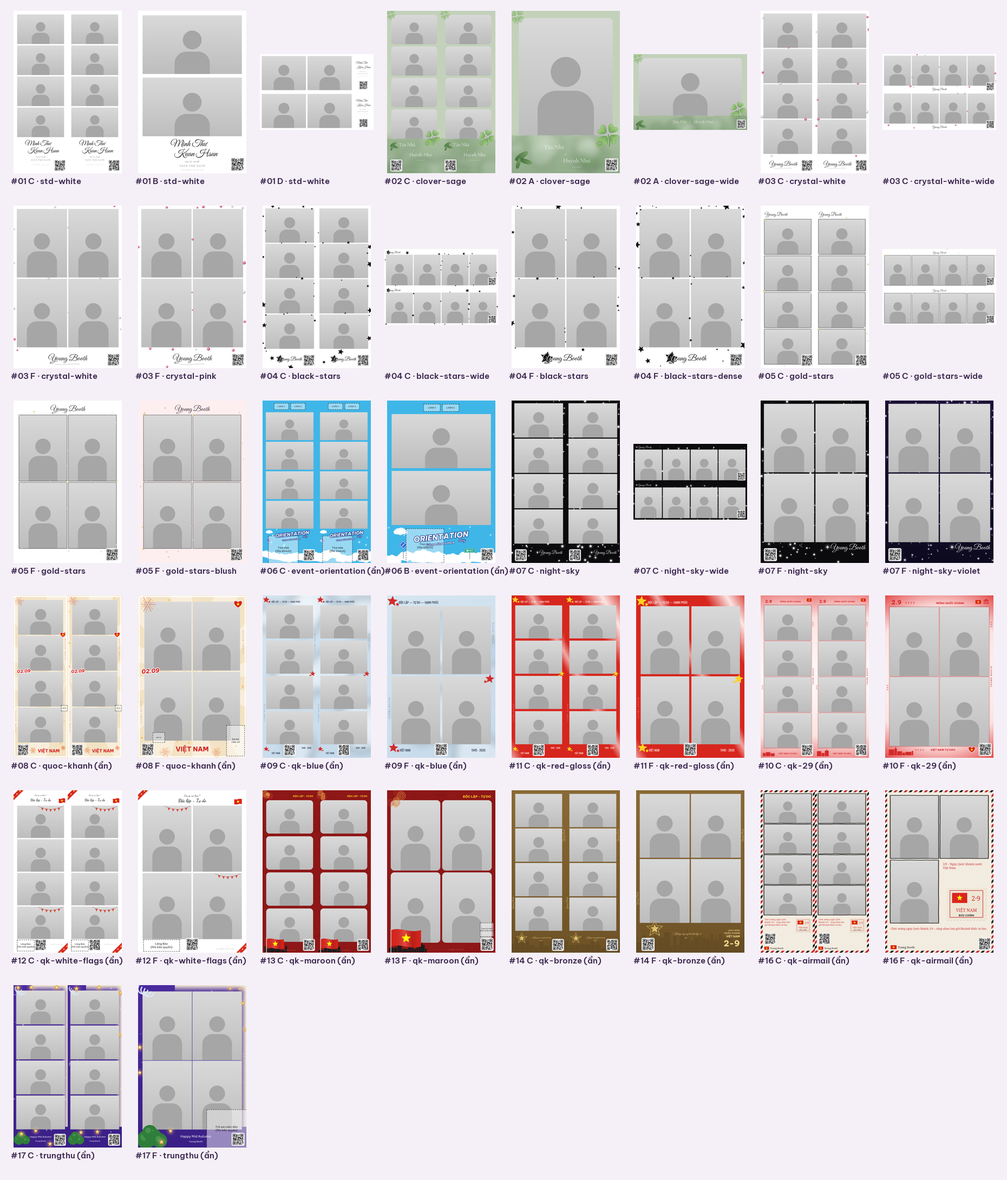
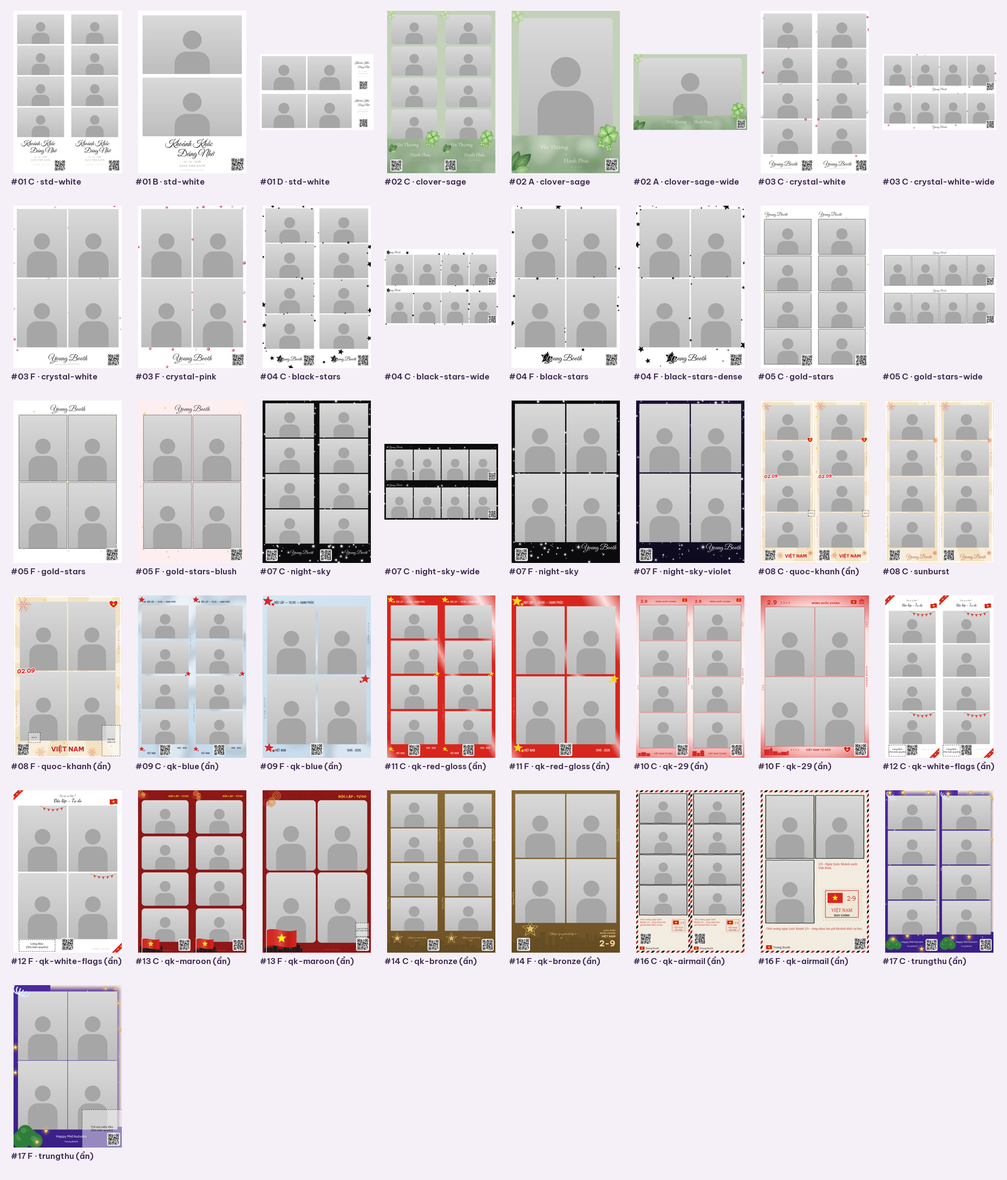
Khung: bỏ tên người trong chữ mặc định, dùng chữ chung cho đám cưới / sự kiện; ngày trống = hôm nay

diff --git a/renderer/config.js b/renderer/config.js
@@ -25,27 +25,27 @@ const FRAME_SETS = {
       { id: 'A-clover-sage', name: 'Cỏ Bốn Lá – Sage', textGroup: 'clover-sage', overlay: 'file:///C:/YoungBooth-Frames/A-clover-sage.png', thumb: 'file:///C:/YoungBooth-Frames/A-clover-sage-thumb.png', background: '#c3d1ba', logo: null, showBrand: false, canvas: { w: 1200, h: 1800 }, qr: { size: 120, label: false, at: [{ x: 1036, y: 1636 }] },
         slots: [{ x: 80, y: 80, w: 1040, h: 1300, radius: 40 }],
         texts: [
-          { id: 'line1', label: 'Tên người thứ nhất', value: 'Tấn Nhã', x: 470, y: 1530, size: 64, fit: 520, color: '#ffffff', ff: '"YB Serif", Georgia, serif', weight: '600' },
+          { id: 'line1', label: 'Dòng chữ trên', value: 'Yêu Thương', x: 470, y: 1530, size: 64, fit: 520, color: '#ffffff', ff: '"YB Serif", Georgia, serif', weight: '600' },
           { id: 'sep', label: 'Ký tự nối', value: '+', x: 600, y: 1600, size: 40, color: '#ffffff', ff: '"YB Serif", Georgia, serif', weight: '600' },
-          { id: 'line2', label: 'Tên người thứ hai', value: 'Huỳnh Như', x: 720, y: 1680, size: 64, fit: 520, color: '#ffffff', ff: '"YB Serif", Georgia, serif', weight: '600' },
-          { id: 'date', label: 'Ngày', value: '05.07.2026', x: 720, y: 1735, size: 22, color: '#f2f6ef', ff: '"YB Serif", Georgia, serif', weight: '600', ls: 2 },
+          { id: 'line2', label: 'Dòng chữ dưới', value: 'Hạnh Phúc', x: 720, y: 1680, size: 64, fit: 520, color: '#ffffff', ff: '"YB Serif", Georgia, serif', weight: '600' },
+          { id: 'date', label: 'Ngày (trống = hôm nay)', value: '', x: 720, y: 1735, size: 22, color: '#f2f6ef', ff: '"YB Serif", Georgia, serif', weight: '600', ls: 2 },
         ] },
       { id: 'A-clover-sage-wide', name: 'Cỏ Bốn Lá – Sage (ngang)', textGroup: 'clover-sage', overlay: 'file:///C:/YoungBooth-Frames/A-clover-sage-wide.png', thumb: 'file:///C:/YoungBooth-Frames/A-clover-sage-wide-thumb.png', background: '#c3d1ba', logo: null, showBrand: false, canvas: { w: 1800, h: 1200 }, paper: '4x6', qr: { size: 120, label: false, at: [{ x: 1636, y: 1036 }] },
         slots: [{ x: 85, y: 63, w: 1630, h: 910, radius: 40 }],
         texts: [
-          { id: 'line1', label: 'Tên người thứ nhất', value: 'Tấn Nhã', x: 840, y: 1090, size: 64, fit: 620, color: '#ffffff', ff: '"YB Serif", Georgia, serif', weight: '600', align: 'right' },
+          { id: 'line1', label: 'Dòng chữ trên', value: 'Yêu Thương', x: 840, y: 1090, size: 64, fit: 620, color: '#ffffff', ff: '"YB Serif", Georgia, serif', weight: '600', align: 'right' },
           { id: 'sep', label: 'Ký tự nối', value: '+', x: 900, y: 1088, size: 44, color: '#ffffff', ff: '"YB Serif", Georgia, serif', weight: '600' },
-          { id: 'line2', label: 'Tên người thứ hai', value: 'Huỳnh Như', x: 960, y: 1090, size: 64, fit: 620, color: '#ffffff', ff: '"YB Serif", Georgia, serif', weight: '600', align: 'left' },
-          { id: 'date', label: 'Ngày', value: '05.07.2026', x: 900, y: 1140, size: 22, color: '#f2f6ef', ff: '"YB Serif", Georgia, serif', weight: '600', ls: 2 },
+          { id: 'line2', label: 'Dòng chữ dưới', value: 'Hạnh Phúc', x: 960, y: 1090, size: 64, fit: 620, color: '#ffffff', ff: '"YB Serif", Georgia, serif', weight: '600', align: 'left' },
+          { id: 'date', label: 'Ngày (trống = hôm nay)', value: '', x: 900, y: 1140, size: 22, color: '#f2f6ef', ff: '"YB Serif", Georgia, serif', weight: '600', ls: 2 },
         ] },
   ],
   B: [
       { id: 'B-std-white', name: 'Save The Date – Trắng (dọc)', textGroup: 'std-white', overlay: 'file:///C:/YoungBooth-Frames/B-std-white.png', thumb: 'file:///C:/YoungBooth-Frames/B-std-white-thumb.png', background: '#ffffff', logo: null, showBrand: false, canvas: { w: 1200, h: 1800 }, paper: '4x6', noRotate: false, qr: { size: 130, label: false, at: [{ x: 1024, y: 1624 }] },
         slots: [{ x: 50, y: 50, w: 1100, h: 650 }, { x: 50, y: 740, w: 1100, h: 650 }],
         texts: [
-          { id: 'line1', label: 'Tên dòng 1', value: 'Minh Thư', x: 560, y: 1500, size: 100, fit: 760, color: '#1a1a1a', ff: '"YB Script", "Dancing Script", cursive' },
-          { id: 'line2', label: 'Tên dòng 2', value: 'Kuan Hsun', x: 640, y: 1610, size: 100, fit: 760, color: '#1a1a1a', ff: '"YB Script", "Dancing Script", cursive' },
-          { id: 'date', label: 'Ngày', value: '09.07.2026', x: 600, y: 1680, size: 32, color: '#333333', ff: '"YB Serif", Georgia, serif', weight: '600', ls: 3 },
+          { id: 'line1', label: 'Dòng chữ 1', value: 'Khoảnh Khắc', x: 560, y: 1500, size: 100, fit: 760, color: '#1a1a1a', ff: '"YB Script", "Dancing Script", cursive' },
+          { id: 'line2', label: 'Dòng chữ 2', value: 'Đáng Nhớ', x: 640, y: 1610, size: 100, fit: 760, color: '#1a1a1a', ff: '"YB Script", "Dancing Script", cursive' },
+          { id: 'date', label: 'Ngày (trống = hôm nay)', value: '', x: 600, y: 1680, size: 32, color: '#333333', ff: '"YB Serif", Georgia, serif', weight: '600', ls: 3 },
           { id: 'tagline', label: 'Dòng dưới ngày', value: 'SAVE THE DATE', x: 600, y: 1728, size: 30, color: '#333333', ff: '"YB Serif", Georgia, serif', weight: '600', ls: 5 },
         ] },
   ],
@@ -53,18 +53,18 @@ const FRAME_SETS = {
       { id: 'C-std-white', name: 'Save The Date – Trắng', textGroup: 'std-white', overlay: 'file:///C:/YoungBooth-Frames/C-std-white.png', thumb: 'file:///C:/YoungBooth-Frames/C-std-white-thumb.png', background: '#ffffff', logo: null, showBrand: false, canvas: { w: 1200, h: 1800 }, cut2inch: true, qr: { size: 110, label: false, at: [{ x: 448, y: 1648 }, { x: 1048, y: 1648 }] },
         slots: [{ x: 40, y: 40, w: 520, h: 328 }, { x: 40, y: 384, w: 520, h: 328 }, { x: 40, y: 728, w: 520, h: 328 }, { x: 40, y: 1072, w: 520, h: 328 }, { x: 640, y: 40, w: 520, h: 328 }, { x: 640, y: 384, w: 520, h: 328 }, { x: 640, y: 728, w: 520, h: 328 }, { x: 640, y: 1072, w: 520, h: 328 }],
         texts: [
-          { id: 'line1', label: 'Tên dòng 1', value: 'Minh Thư', xs: [270, 870], y: 1490, size: 72, fit: 480, color: '#1a1a1a', ff: '"YB Script", "Dancing Script", cursive' },
-          { id: 'line2', label: 'Tên dòng 2', value: 'Kuan Hsun', xs: [330, 930], y: 1570, size: 72, fit: 480, color: '#1a1a1a', ff: '"YB Script", "Dancing Script", cursive' },
-          { id: 'date', label: 'Ngày', value: '09.07.2026', xs: [300, 900], y: 1625, size: 24, color: '#333333', ff: '"YB Serif", Georgia, serif', weight: '600', ls: 2 },
+          { id: 'line1', label: 'Dòng chữ 1', value: 'Khoảnh Khắc', xs: [270, 870], y: 1490, size: 72, fit: 480, color: '#1a1a1a', ff: '"YB Script", "Dancing Script", cursive' },
+          { id: 'line2', label: 'Dòng chữ 2', value: 'Đáng Nhớ', xs: [330, 930], y: 1570, size: 72, fit: 480, color: '#1a1a1a', ff: '"YB Script", "Dancing Script", cursive' },
+          { id: 'date', label: 'Ngày (trống = hôm nay)', value: '', xs: [300, 900], y: 1625, size: 24, color: '#333333', ff: '"YB Serif", Georgia, serif', weight: '600', ls: 2 },
           { id: 'tagline', label: 'Dòng dưới ngày', value: 'SAVE THE DATE', xs: [300, 900], y: 1662, size: 22, color: '#333333', ff: '"YB Serif", Georgia, serif', weight: '600', ls: 4 },
         ] },
       { id: 'C-clover-sage', name: 'Cỏ Bốn Lá – Sage', textGroup: 'clover-sage', overlay: 'file:///C:/YoungBooth-Frames/C-clover-sage.png', thumb: 'file:///C:/YoungBooth-Frames/C-clover-sage-thumb.png', background: '#c3d1ba', logo: null, showBrand: false, canvas: { w: 1200, h: 1800 }, cut2inch: true, qr: { size: 110, label: false, at: [{ x: 36, y: 1648 }, { x: 636, y: 1648 }] },
         slots: [{ x: 45, y: 45, w: 510, h: 325, radius: 36 }, { x: 45, y: 394, w: 510, h: 325, radius: 36 }, { x: 45, y: 743, w: 510, h: 325, radius: 36 }, { x: 45, y: 1092, w: 510, h: 325, radius: 36 }, { x: 645, y: 45, w: 510, h: 325, radius: 36 }, { x: 645, y: 394, w: 510, h: 325, radius: 36 }, { x: 645, y: 743, w: 510, h: 325, radius: 36 }, { x: 645, y: 1092, w: 510, h: 325, radius: 36 }],
         texts: [
-          { id: 'line1', label: 'Tên người thứ nhất', value: 'Tấn Nhã', xs: [220, 820], y: 1500, size: 52, fit: 360, color: '#ffffff', ff: '"YB Serif", Georgia, serif', weight: '600' },
+          { id: 'line1', label: 'Dòng chữ trên', value: 'Yêu Thương', xs: [220, 820], y: 1500, size: 52, fit: 360, color: '#ffffff', ff: '"YB Serif", Georgia, serif', weight: '600' },
           { id: 'sep', label: 'Ký tự nối', value: '+', xs: [290, 890], y: 1552, size: 36, color: '#ffffff', ff: '"YB Serif", Georgia, serif', weight: '600' },
-          { id: 'line2', label: 'Tên người thứ hai', value: 'Huỳnh Như', xs: [370, 970], y: 1612, size: 52, fit: 360, color: '#ffffff', ff: '"YB Serif", Georgia, serif', weight: '600' },
-          { id: 'date', label: 'Ngày', value: '05.07.2026', xs: [370, 970], y: 1660, size: 20, color: '#f2f6ef', ff: '"YB Serif", Georgia, serif', weight: '600', ls: 2 },
+          { id: 'line2', label: 'Dòng chữ dưới', value: 'Hạnh Phúc', xs: [370, 970], y: 1612, size: 52, fit: 360, color: '#ffffff', ff: '"YB Serif", Georgia, serif', weight: '600' },
+          { id: 'date', label: 'Ngày (trống = hôm nay)', value: '', xs: [370, 970], y: 1660, size: 20, color: '#f2f6ef', ff: '"YB Serif", Georgia, serif', weight: '600', ls: 2 },
         ] },
       { id: 'C-crystal-white', name: 'Pha Lê Trắng', overlay: 'file:///C:/YoungBooth-Frames/C-crystal-white.png', thumb: 'file:///C:/YoungBooth-Frames/C-crystal-white-thumb.png', background: '#ffffff', logo: null, showBrand: false, canvas: { w: 1200, h: 1800 }, cut2inch: true, qr: { size: 110, label: false, at: [{ x: 448, y: 1648 }, { x: 1048, y: 1648 }] },
         slots: [{ x: 30, y: 30, w: 540, h: 380 }, { x: 30, y: 422, w: 540, h: 380 }, { x: 30, y: 814, w: 540, h: 380 }, { x: 30, y: 1206, w: 540, h: 380 }, { x: 630, y: 30, w: 540, h: 380 }, { x: 630, y: 422, w: 540, h: 380 }, { x: 630, y: 814, w: 540, h: 380 }, { x: 630, y: 1206, w: 540, h: 380 }],
@@ -151,9 +151,9 @@ const FRAME_SETS = {
       { id: 'D-std-white', name: 'Save The Date – Trắng', textGroup: 'std-white', overlay: 'file:///C:/YoungBooth-Frames/D-std-white.png', thumb: 'file:///C:/YoungBooth-Frames/D-std-white-thumb.png', background: '#ffffff', logo: null, showBrand: false, canvas: { w: 1800, h: 1200 }, cut2inch: true, noRotate: false, qr: { size: 120, label: false, at: [{ x: 1567, y: 420 }, { x: 1567, y: 1020 }] },
         slots: [{ x: 30, y: 30, w: 700, h: 540 }, { x: 754, y: 30, w: 700, h: 540 }, { x: 30, y: 630, w: 700, h: 540 }, { x: 754, y: 630, w: 700, h: 540 }],
         texts: [
-          { id: 'line1', label: 'Tên dòng 1', value: 'Minh Thư', x: 1612, ys: [150, 750], size: 46, fit: 300, color: '#1a1a1a', ff: '"YB Script", "Dancing Script", cursive' },
-          { id: 'line2', label: 'Tên dòng 2', value: 'Kuan Hsun', x: 1642, ys: [220, 820], size: 46, fit: 300, color: '#1a1a1a', ff: '"YB Script", "Dancing Script", cursive' },
-          { id: 'date', label: 'Ngày', value: '09.07.2026', x: 1627, ys: [280, 880], size: 20, color: '#333333', ff: '"YB Serif", Georgia, serif', weight: '600', ls: 2 },
+          { id: 'line1', label: 'Dòng chữ 1', value: 'Khoảnh Khắc', x: 1612, ys: [150, 750], size: 46, fit: 300, color: '#1a1a1a', ff: '"YB Script", "Dancing Script", cursive' },
+          { id: 'line2', label: 'Dòng chữ 2', value: 'Đáng Nhớ', x: 1642, ys: [220, 820], size: 46, fit: 300, color: '#1a1a1a', ff: '"YB Script", "Dancing Script", cursive' },
+          { id: 'date', label: 'Ngày (trống = hôm nay)', value: '', x: 1627, ys: [280, 880], size: 20, color: '#333333', ff: '"YB Serif", Georgia, serif', weight: '600', ls: 2 },
           { id: 'tagline', label: 'Dòng dưới ngày', value: 'SAVE THE DATE', x: 1627, ys: [315, 915], size: 18, color: '#333333', ff: '"YB Serif", Georgia, serif', weight: '600', ls: 3 },
         ] },
   ],
@@ -261,65 +261,65 @@ const EVENT_FRAMES = [
       { id: 'EV-A-cs-d1', mode: 'A', name: 'Cỏ Bốn Lá – Tờ dọc', photos: 1, textGroup: 'clover-sage', overlay: 'file:///C:/YoungBooth-Frames/events/co-bon-la/cs-d1.png', thumb: 'file:///C:/YoungBooth-Frames/events/co-bon-la/cs-d1-thumb.png', background: '#c3d1ba', logo: null, showBrand: false, canvas: { w: 1200, h: 1800 }, qr: { size: 120, label: false, at: [{ x: 1036, y: 1636 }] },
         slots: [{ x: 80, y: 80, w: 1040, h: 1300, radius: 40 }],
         texts: [
-          { id: 'line1', label: 'Tên người thứ nhất', value: 'Tấn Nhã', x: 470, y: 1530, size: 64, fit: 520, color: '#ffffff', ff: '"YB Serif", Georgia, serif', weight: '600' },
+          { id: 'line1', label: 'Dòng chữ trên', value: 'Yêu Thương', x: 470, y: 1530, size: 64, fit: 520, color: '#ffffff', ff: '"YB Serif", Georgia, serif', weight: '600' },
           { id: 'sep', label: 'Ký tự nối', value: '+', x: 600, y: 1600, size: 40, color: '#ffffff', ff: '"YB Serif", Georgia, serif', weight: '600' },
-          { id: 'line2', label: 'Tên người thứ hai', value: 'Huỳnh Như', x: 720, y: 1680, size: 64, fit: 520, color: '#ffffff', ff: '"YB Serif", Georgia, serif', weight: '600' },
-          { id: 'date', label: 'Ngày', value: '05.07.2026', x: 720, y: 1735, size: 22, color: '#f2f6ef', ff: '"YB Serif", Georgia, serif', weight: '600', ls: 2 },
+          { id: 'line2', label: 'Dòng chữ dưới', value: 'Hạnh Phúc', x: 720, y: 1680, size: 64, fit: 520, color: '#ffffff', ff: '"YB Serif", Georgia, serif', weight: '600' },
+          { id: 'date', label: 'Ngày (trống = hôm nay)', value: '', x: 720, y: 1735, size: 22, color: '#f2f6ef', ff: '"YB Serif", Georgia, serif', weight: '600', ls: 2 },
         ] },
       { id: 'EV-A-cs-n1', mode: 'A', name: 'Cỏ Bốn Lá – Tờ ngang', photos: 1, textGroup: 'clover-sage', overlay: 'file:///C:/YoungBooth-Frames/events/co-bon-la/cs-n1.png', thumb: 'file:///C:/YoungBooth-Frames/events/co-bon-la/cs-n1-thumb.png', background: '#c3d1ba', logo: null, showBrand: false, canvas: { w: 1800, h: 1200 }, paper: '4x6', qr: { size: 120, label: false, at: [{ x: 1636, y: 1036 }] },
         slots: [{ x: 85, y: 63, w: 1630, h: 910, radius: 40 }],
         texts: [
-          { id: 'line1', label: 'Tên người thứ nhất', value: 'Tấn Nhã', x: 840, y: 1090, size: 64, fit: 620, color: '#ffffff', ff: '"YB Serif", Georgia, serif', weight: '600', align: 'right' },
+          { id: 'line1', label: 'Dòng chữ trên', value: 'Yêu Thương', x: 840, y: 1090, size: 64, fit: 620, color: '#ffffff', ff: '"YB Serif", Georgia, serif', weight: '600', align: 'right' },
           { id: 'sep', label: 'Ký tự nối', value: '+', x: 900, y: 1088, size: 44, color: '#ffffff', ff: '"YB Serif", Georgia, serif', weight: '600' },
-          { id: 'line2', label: 'Tên người thứ hai', value: 'Huỳnh Như', x: 960, y: 1090, size: 64, fit: 620, color: '#ffffff', ff: '"YB Serif", Georgia, serif', weight: '600', align: 'left' },
-          { id: 'date', label: 'Ngày', value: '05.07.2026', x: 900, y: 1140, size: 22, color: '#f2f6ef', ff: '"YB Serif", Georgia, serif', weight: '600', ls: 2 },
+          { id: 'line2', label: 'Dòng chữ dưới', value: 'Hạnh Phúc', x: 960, y: 1090, size: 64, fit: 620, color: '#ffffff', ff: '"YB Serif", Georgia, serif', weight: '600', align: 'left' },
+          { id: 'date', label: 'Ngày (trống = hôm nay)', value: '', x: 900, y: 1140, size: 22, color: '#f2f6ef', ff: '"YB Serif", Georgia, serif', weight: '600', ls: 2 },
         ] },
       { id: 'EV-A-rv-d1', mode: 'A', name: 'Đỏ Rượu Vang – 1 ảnh dọc', photos: 1, textGroup: 'rv', overlay: 'file:///C:/YoungBooth-Frames/events/ruou-vang/rv-d1.png', thumb: 'file:///C:/YoungBooth-Frames/events/ruou-vang/rv-d1-thumb.png', background: '#6e0b16', logo: null, showBrand: false, canvas: { w: 1200, h: 1800 }, qr: { size: 120, label: false, at: [{ x: 1036, y: 1636 }] },
         slots: [{ x: 42, y: 42, w: 1116, h: 1380, radius: 14 }],
         texts: [
-          { id: 'line1', label: 'Tên thứ nhất', value: 'Nhã', x: 560, y: 1560, size: 84, fit: 330, color: '#f5efe6', ff: '"YB Script", "Dancing Script", cursive', align: 'right' },
-          { id: 'line2', label: 'Tên thứ hai', value: 'Như', x: 640, y: 1560, size: 84, fit: 330, color: '#f5efe6', ff: '"YB Script", "Dancing Script", cursive', align: 'left' },
-          { id: 'date', label: 'Ngày', value: '05 - 07 - 2026', x: 600, y: 1630, size: 26, color: '#f5efe6', ff: '"Be Vietnam Pro", Arial, sans-serif', weight: '500', ls: 3 },
+          { id: 'line1', label: 'Chữ bên trái trái tim', value: 'Love', x: 560, y: 1560, size: 84, fit: 330, color: '#f5efe6', ff: '"YB Script", "Dancing Script", cursive', align: 'right' },
+          { id: 'line2', label: 'Chữ bên phải trái tim', value: 'Forever', x: 640, y: 1560, size: 84, fit: 330, color: '#f5efe6', ff: '"YB Script", "Dancing Script", cursive', align: 'left' },
+          { id: 'date', label: 'Ngày (trống = hôm nay)', value: '', x: 600, y: 1630, size: 26, color: '#f5efe6', ff: '"Be Vietnam Pro", Arial, sans-serif', weight: '500', ls: 3 },
           { id: 'thanks', label: 'Lời cảm ơn', value: 'Thank You', x: 600, y: 1706, size: 42, color: '#f5efe6', ff: '"YB Script", "Dancing Script", cursive' },
         ] },
       { id: 'EV-B-rv-d2', mode: 'B', name: 'Đỏ Rượu Vang – 2 ảnh dọc', photos: 2, textGroup: 'rv', overlay: 'file:///C:/YoungBooth-Frames/events/ruou-vang/rv-d2.png', thumb: 'file:///C:/YoungBooth-Frames/events/ruou-vang/rv-d2-thumb.png', background: '#6e0b16', logo: null, showBrand: false, canvas: { w: 1200, h: 1800 }, paper: '4x6', noRotate: false, qr: { size: 120, label: false, at: [{ x: 1036, y: 1636 }] },
         slots: [{ x: 42, y: 42, w: 1116, h: 718, radius: 12 }, { x: 42, y: 776, w: 1116, h: 718, radius: 12 }],
         texts: [
-          { id: 'line1', label: 'Tên thứ nhất', value: 'Nhã', x: 560, y: 1600, size: 70, fit: 330, color: '#f5efe6', ff: '"YB Script", "Dancing Script", cursive', align: 'right' },
-          { id: 'line2', label: 'Tên thứ hai', value: 'Như', x: 640, y: 1600, size: 70, fit: 330, color: '#f5efe6', ff: '"YB Script", "Dancing Script", cursive', align: 'left' },
-          { id: 'date', label: 'Ngày', value: '05 - 07 - 2026', x: 600, y: 1658, size: 22, color: '#f5efe6', ff: '"Be Vietnam Pro", Arial, sans-serif', weight: '500', ls: 3 },
+          { id: 'line1', label: 'Chữ bên trái trái tim', value: 'Love', x: 560, y: 1600, size: 70, fit: 330, color: '#f5efe6', ff: '"YB Script", "Dancing Script", cursive', align: 'right' },
+          { id: 'line2', label: 'Chữ bên phải trái tim', value: 'Forever', x: 640, y: 1600, size: 70, fit: 330, color: '#f5efe6', ff: '"YB Script", "Dancing Script", cursive', align: 'left' },
+          { id: 'date', label: 'Ngày (trống = hôm nay)', value: '', x: 600, y: 1658, size: 22, color: '#f5efe6', ff: '"Be Vietnam Pro", Arial, sans-serif', weight: '500', ls: 3 },
           { id: 'thanks', label: 'Lời cảm ơn', value: 'Thank You', x: 600, y: 1724, size: 36, color: '#f5efe6', ff: '"YB Script", "Dancing Script", cursive' },
         ] },
       { id: 'EV-A-rv-n1', mode: 'A', name: 'Đỏ Rượu Vang – 1 ảnh ngang', photos: 1, textGroup: 'rv', overlay: 'file:///C:/YoungBooth-Frames/events/ruou-vang/rv-n1.png', thumb: 'file:///C:/YoungBooth-Frames/events/ruou-vang/rv-n1-thumb.png', background: '#6e0b16', logo: null, showBrand: false, canvas: { w: 1800, h: 1200 }, paper: '4x6', qr: { size: 120, label: false, at: [{ x: 1620, y: 1020 }] },
         slots: [{ x: 40, y: 40, w: 1720, h: 900, radius: 14 }],
         texts: [
-          { id: 'line1', label: 'Tên thứ nhất', value: 'Nhã', x: 860, y: 1050, size: 80, fit: 380, color: '#f5efe6', ff: '"YB Script", "Dancing Script", cursive', align: 'right' },
-          { id: 'line2', label: 'Tên thứ hai', value: 'Như', x: 940, y: 1050, size: 80, fit: 380, color: '#f5efe6', ff: '"YB Script", "Dancing Script", cursive', align: 'left' },
-          { id: 'date', label: 'Ngày', value: '05 - 07 - 2026', x: 900, y: 1108, size: 24, color: '#f5efe6', ff: '"Be Vietnam Pro", Arial, sans-serif', weight: '500', ls: 3 },
+          { id: 'line1', label: 'Chữ bên trái trái tim', value: 'Love', x: 860, y: 1050, size: 80, fit: 380, color: '#f5efe6', ff: '"YB Script", "Dancing Script", cursive', align: 'right' },
+          { id: 'line2', label: 'Chữ bên phải trái tim', value: 'Forever', x: 940, y: 1050, size: 80, fit: 380, color: '#f5efe6', ff: '"YB Script", "Dancing Script", cursive', align: 'left' },
+          { id: 'date', label: 'Ngày (trống = hôm nay)', value: '', x: 900, y: 1108, size: 24, color: '#f5efe6', ff: '"Be Vietnam Pro", Arial, sans-serif', weight: '500', ls: 3 },
           { id: 'thanks', label: 'Lời cảm ơn', value: 'Thank You', x: 900, y: 1162, size: 36, color: '#f5efe6', ff: '"YB Script", "Dancing Script", cursive' },
         ] },
       { id: 'EV-A-lc-d1', mode: 'A', name: 'Chanh Vàng – Tờ dọc', photos: 1, textGroup: 'lc', overlay: 'file:///C:/YoungBooth-Frames/events/chanh-vang/lc-d1.png', thumb: 'file:///C:/YoungBooth-Frames/events/chanh-vang/lc-d1-thumb.png', background: '#fffdf7', logo: null, showBrand: false, canvas: { w: 1200, h: 1800 }, qr: { size: 120, label: false, at: [{ x: 1036, y: 1636 }] },
         slots: [{ x: 42, y: 42, w: 1116, h: 1400 }],
         texts: [
-          { id: 'mono', label: 'Chữ cái đầu (monogram)', value: 'H&T', x: 600, y: 1632, size: 66, fit: 211.2, color: '#7a5a1e', ff: '"YB Serif", Georgia, serif', weight: '700' },
-          { id: 'date', label: 'Ngày', value: '01.07.2026', x: 600, y: 1686, size: 22, color: '#7a5a1e', ff: '"YB Serif", Georgia, serif', weight: '600', ls: 2 },
+          { id: 'mono', label: 'Chữ trong vòng lá (vd chữ cái đầu)', value: 'Love', x: 600, y: 1632, size: 66, fit: 211.2, color: '#7a5a1e', ff: '"YB Serif", Georgia, serif', weight: '700' },
+          { id: 'date', label: 'Ngày (trống = hôm nay)', value: '', x: 600, y: 1686, size: 22, color: '#7a5a1e', ff: '"YB Serif", Georgia, serif', weight: '600', ls: 2 },
         ] },
       { id: 'EV-A-lc-n1', mode: 'A', name: 'Chanh Vàng – Tờ ngang', photos: 1, textGroup: 'lc', overlay: 'file:///C:/YoungBooth-Frames/events/chanh-vang/lc-n1.png', thumb: 'file:///C:/YoungBooth-Frames/events/chanh-vang/lc-n1-thumb.png', background: '#fffdf7', logo: null, showBrand: false, canvas: { w: 1800, h: 1200 }, paper: '4x6', qr: { size: 120, label: false, at: [{ x: 1620, y: 1020 }] },
         slots: [{ x: 42, y: 42, w: 1716, h: 860 }],
         texts: [
-          { id: 'mono', label: 'Chữ cái đầu (monogram)', value: 'H&T', x: 900, y: 1054, size: 54, fit: 172.8, color: '#7a5a1e', ff: '"YB Serif", Georgia, serif', weight: '700' },
-          { id: 'date', label: 'Ngày', value: '01.07.2026', x: 900, y: 1098, size: 18, color: '#7a5a1e', ff: '"YB Serif", Georgia, serif', weight: '600', ls: 2 },
+          { id: 'mono', label: 'Chữ trong vòng lá (vd chữ cái đầu)', value: 'Love', x: 900, y: 1054, size: 54, fit: 172.8, color: '#7a5a1e', ff: '"YB Serif", Georgia, serif', weight: '700' },
+          { id: 'date', label: 'Ngày (trống = hôm nay)', value: '', x: 900, y: 1098, size: 18, color: '#7a5a1e', ff: '"YB Serif", Georgia, serif', weight: '600', ls: 2 },
         ] },
       { id: 'EV-F-lc-n3', mode: 'F', name: 'Chanh Vàng – 3 ảnh ngang', photos: 3, textGroup: 'lc', overlay: 'file:///C:/YoungBooth-Frames/events/chanh-vang/lc-n3.png', thumb: 'file:///C:/YoungBooth-Frames/events/chanh-vang/lc-n3-thumb.png', background: '#fffdf7', logo: null, showBrand: false, canvas: { w: 1800, h: 1200 }, paper: '4x6', qr: { size: 120, label: false, at: [{ x: 1600, y: 410 }] },
         slots: [{ x: 40, y: 40, w: 850, h: 550 }, { x: 40, y: 610, w: 850, h: 550 }, { x: 910, y: 610, w: 850, h: 550 }],
         texts: [
-          { id: 'mono', label: 'Chữ cái đầu (monogram)', value: 'H&T', x: 1300, y: 322, size: 112, fit: 358.4, color: '#7a5a1e', ff: '"YB Serif", Georgia, serif', weight: '700' },
-          { id: 'date', label: 'Ngày', value: '01.07.2026', x: 1300, y: 404, size: 30, color: '#7a5a1e', ff: '"YB Serif", Georgia, serif', weight: '600', ls: 2 },
+          { id: 'mono', label: 'Chữ trong vòng lá (vd chữ cái đầu)', value: 'Love', x: 1300, y: 322, size: 112, fit: 358.4, color: '#7a5a1e', ff: '"YB Serif", Georgia, serif', weight: '700' },
+          { id: 'date', label: 'Ngày (trống = hôm nay)', value: '', x: 1300, y: 404, size: 30, color: '#7a5a1e', ff: '"YB Serif", Georgia, serif', weight: '600', ls: 2 },
         ] },
       { id: 'EV-A-bc-d1', mode: 'A', name: 'Báo Cũ – The Daily', photos: 1, textGroup: 'bc', overlay: 'file:///C:/YoungBooth-Frames/events/bao-cu/bc-d1.png', thumb: 'file:///C:/YoungBooth-Frames/events/bao-cu/bc-d1-thumb.png', background: '#cfc4a5', logo: null, showBrand: false, canvas: { w: 1200, h: 1800 }, qr: { size: 120, label: false, at: [{ x: 70, y: 1590 }] },
         slots: [{ x: 60, y: 96, w: 1080, h: 1290 }],
         texts: [
-          { id: 'dateline', label: 'Dòng ngày kiểu báo', value: 'Monday, August 30, 1926', x: 64, y: 1478, size: 22, fit: 360, color: '#4e4434', ff: '"Noto Serif", Georgia, serif', align: 'left' },
+          { id: 'dateline', label: 'Dòng ngày kiểu báo', value: 'Ấn bản đặc biệt', x: 64, y: 1478, size: 22, fit: 360, color: '#4e4434', ff: '"Noto Serif", Georgia, serif', align: 'left' },
         ] },
       { id: 'EV-B-pl-n2', mode: 'B', name: 'Polaroid Băng Dính', photos: 2, textGroup: 'pl', overlay: 'file:///C:/YoungBooth-Frames/events/polaroid/pl-n2.png', thumb: 'file:///C:/YoungBooth-Frames/events/polaroid/pl-n2-thumb.png', background: '#ffffff', logo: null, showBrand: false, canvas: { w: 1800, h: 1200 }, qr: { size: 120, label: false, at: [{ x: 700, y: 950 }, { x: 1582, y: 950 }] },
         slots: [{ x: 99, y: 153, w: 720, h: 720 }, { x: 981, y: 153, w: 720, h: 720 }],

diff --git a/scripts/frame_sets.py b/scripts/frame_sets.py
@@ -32,10 +32,11 @@ NSERIF = '"Noto Serif", Georgia, serif'
 
 # ---------------------------------------------------------------- nhóm chữ động (1 bộ khung = 1 nhóm, admin nhập 1 lần)
 GROUPS = {
-    'std-white': ('Khung Save The Date', [('line1', 'Tên dòng 1', 'Minh Thư'), ('line2', 'Tên dòng 2', 'Kuan Hsun'),
-                                          ('date', 'Ngày', '09.07.2026'), ('tagline', 'Dòng dưới ngày', 'SAVE THE DATE')]),
-    'clover-sage': ('Khung Cỏ Bốn Lá', [('line1', 'Tên người thứ nhất', 'Tấn Nhã'), ('sep', 'Ký tự nối', '+'),
-                                        ('line2', 'Tên người thứ hai', 'Huỳnh Như'), ('date', 'Ngày', '05.07.2026')]),
+    # Chữ mặc định CHUNG (không tên người) — hợp cả đám cưới lẫn sự kiện; ngày để trống = app tự in ngày hôm nay.
+    'std-white': ('Khung Save The Date', [('line1', 'Dòng chữ 1', 'Khoảnh Khắc'), ('line2', 'Dòng chữ 2', 'Đáng Nhớ'),
+                                          ('date', 'Ngày (trống = hôm nay)', ''), ('tagline', 'Dòng dưới ngày', 'SAVE THE DATE')]),
+    'clover-sage': ('Khung Cỏ Bốn Lá', [('line1', 'Dòng chữ trên', 'Yêu Thương'), ('sep', 'Ký tự nối', '+'),
+                                        ('line2', 'Dòng chữ dưới', 'Hạnh Phúc'), ('date', 'Ngày (trống = hôm nay)', '')]),
     'event-orientation': ('Khung Orientation Day', [('title', 'Tên sự kiện', 'ORIENTATION'), ('title2', 'Chữ phụ tên sự kiện', 'day'),
                                                     ('tagline', 'Khẩu hiệu', 'Future Starts Here')]),
     'quockhanh': ('Khung Quốc Khánh 02.09', [('date', 'Ngày lễ', '02.09'), ('title', 'Dòng chữ dưới', 'VIỆT NAM')]),
@@ -1004,8 +1005,11 @@ def make_thumb(f, png, c, width=300):
         comp(th, sl, s['x'], s['y'])
     th.alpha_composite(png)
     for box, label in c.ph: placeholder(th, *box, label, c.fonts)
+    import datetime
+    today = datetime.date.today().strftime('%d . %m . %Y')   # giống app: ô ngày để trống → ngày hôm nay
     for t in f['texts']:
-        for x, y in _instances(t): draw_text(th, c.fonts, t['value'], x, y, t)
+        val = t['value'] or (today if t['id'] == 'date' else '')
+        for x, y in _instances(t): draw_text(th, c.fonts, val, x, y, t)
     if f['qr']:
         for i, p in enumerate(f['qr']['at']): fake_qr(th, p['x'], p['y'], f['qr']['size'], i + 3)
     return th.convert('RGB').resize((width, round(H * width / W)), Image.LANCZOS)
@@ -1152,10 +1156,10 @@ def emit_config(path):
 # ================================================================================================
 P_, L_ = (1200, 1800), (1800, 1200)
 GROUPS.update({
-    'rv': ('Khung Đỏ Rượu Vang', [('line1', 'Tên thứ nhất', 'Nhã'), ('line2', 'Tên thứ hai', 'Như'),
-                                  ('date', 'Ngày', '05 - 07 - 2026'), ('thanks', 'Lời cảm ơn', 'Thank You')]),
-    'lc': ('Khung Chanh Vàng', [('mono', 'Chữ cái đầu (monogram)', 'H&T'), ('date', 'Ngày', '01.07.2026')]),
-    'bc': ('Khung Báo Cũ', [('dateline', 'Dòng ngày kiểu báo', 'Monday, August 30, 1926')]),
+    'rv': ('Khung Đỏ Rượu Vang', [('line1', 'Chữ bên trái trái tim', 'Love'), ('line2', 'Chữ bên phải trái tim', 'Forever'),
+                                  ('date', 'Ngày (trống = hôm nay)', ''), ('thanks', 'Lời cảm ơn', 'Thank You')]),
+    'lc': ('Khung Chanh Vàng', [('mono', 'Chữ trong vòng lá (vd chữ cái đầu)', 'Love'), ('date', 'Ngày (trống = hôm nay)', '')]),
+    'bc': ('Khung Báo Cũ', [('dateline', 'Dòng ngày kiểu báo', 'Ấn bản đặc biệt')]),
     'pl': ('Khung Polaroid', [('caption', 'Chữ dưới ảnh Polaroid', 'Young Booth')]),
 })
 EV = dict(lib='event', set='ev')

diff --git a/FRAMES_GUIDE.md b/FRAMES_GUIDE.md
@@ -33,7 +33,7 @@ Một khung có thể ghi đè bố cục của kiểu chụp:
   cut2inch: true,                        // in qua máy "DS-RX1 (2inch cut)"
   qr: { size: 110, label: false, at: [{ x: 448, y: 1648 }, { x: 1048, y: 1648 }] },  // góc trên-trái ô QR
   textGroup: 'std-white',                // chữ dùng chung cho cả bộ khung (nhập 1 lần trong Cài đặt)
-  texts: [ { id: 'line1', label: 'Tên dòng 1', value: 'Minh Thư', xs: [270, 870], y: 1490, size: 72, fit: 480,
+  texts: [ { id: 'line1', label: 'Tên dòng 1', value: 'Khoảnh Khắc', xs: [270, 870], y: 1490, size: 72, fit: 480,
              color: '#1a1a1a', ff: '"YB Script", cursive' } ],
 }
 ```
@@ -69,12 +69,12 @@ Mỗi sự kiện có giao diện riêng + danh sách khung riêng. Khung sự k
 **Thêm khung sự kiện mới:**
 1. Thiết kế PNG đúng khổ của kiểu chụp (dọc 1200×1800, ngang 1800×1200), ô ảnh **trong suốt** đúng toạ độ `slots`.
    Kèm ảnh nhỏ `*-thumb.png` rộng ~300 px (không bắt buộc — thiếu thì dùng chính PNG khung).
-2. Chép vào `C:\YoungBooth-Frames\events\<tên bộ>\`, ví dụ `C:\YoungBooth-Frames\events\cuoi-thu-hsun\`.
+2. Chép vào `C:\YoungBooth-Frames\events\<tên bộ>\`, ví dụ `C:\YoungBooth-Frames\events\tiec-cuoi\`.
 3. Trong cùng thư mục tạo file **`frames.json`** khai báo khung (đường dẫn ảnh viết **tương đối** theo thư mục này):
 
 ```json
 [
-  { "id": "EV-C-cuoi-thu-hsun", "mode": "C", "name": "Cưới Thư & Hsun",
+  { "id": "EV-C-cuoi-thu-hsun", "mode": "C", "name": "Tiệc cưới",
     "overlay": "C-cuoi.png", "thumb": "C-cuoi-thumb.png",
     "background": "#ffffff", "logo": null, "showBrand": false, "cut2inch": true,
     "canvas": { "w": 1200, "h": 1800 },
@@ -83,7 +83,7 @@ Mỗi sự kiện có giao diện riêng + danh sách khung riêng. Khung sự k
                { "x": 640, "y": 40, "w": 520, "h": 328 }, { "x": 640, "y": 384, "w": 520, "h": 328 },
                { "x": 640, "y": 728, "w": 520, "h": 328 }, { "x": 640, "y": 1072, "w": 520, "h": 328 } ],
     "qr": { "size": 110, "label": false, "at": [ { "x": 448, "y": 1648 }, { "x": 1048, "y": 1648 } ] },
-    "texts": [ { "id": "line1", "label": "Tên cô dâu", "value": "Minh Thư", "xs": [300, 900], "y": 1520,
+    "texts": [ { "id": "line1", "label": "Dòng chữ", "value": "Khoảnh Khắc", "xs": [300, 900], "y": 1520,
                  "size": 64, "fit": 480, "color": "#1a1a1a", "ff": "\"YB Script\", cursive" } ] }
 ]
 ```
